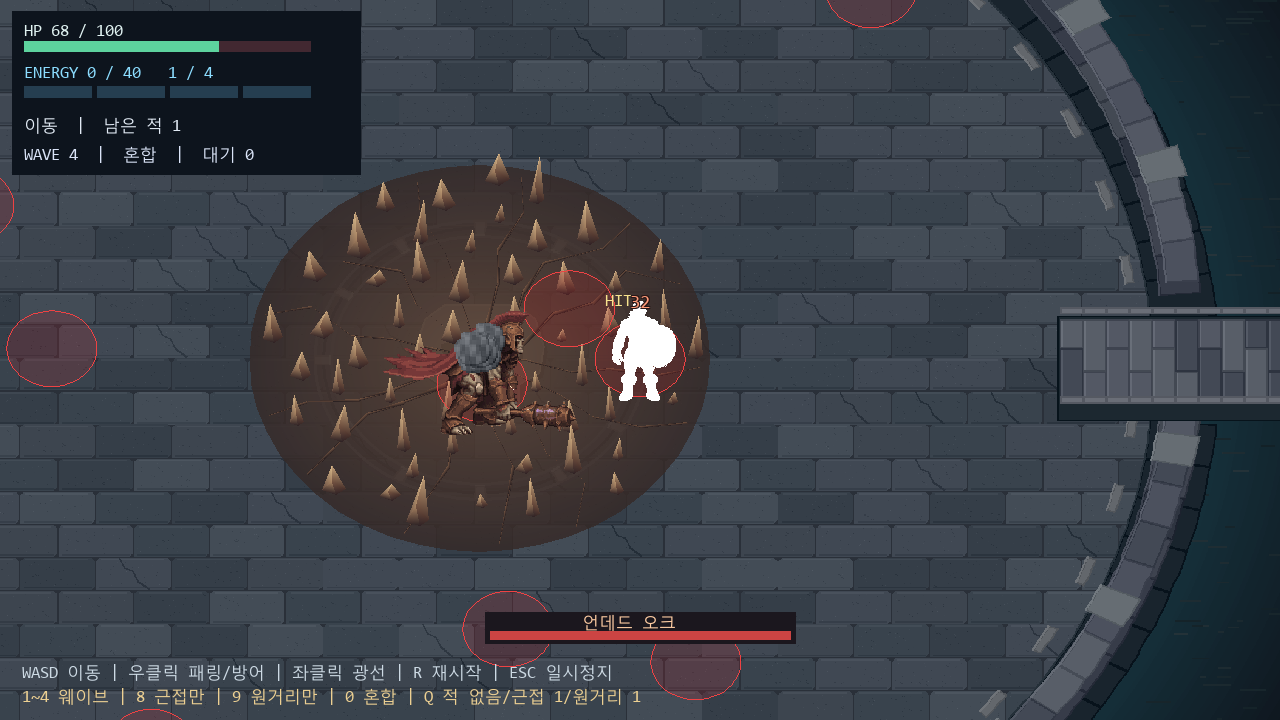
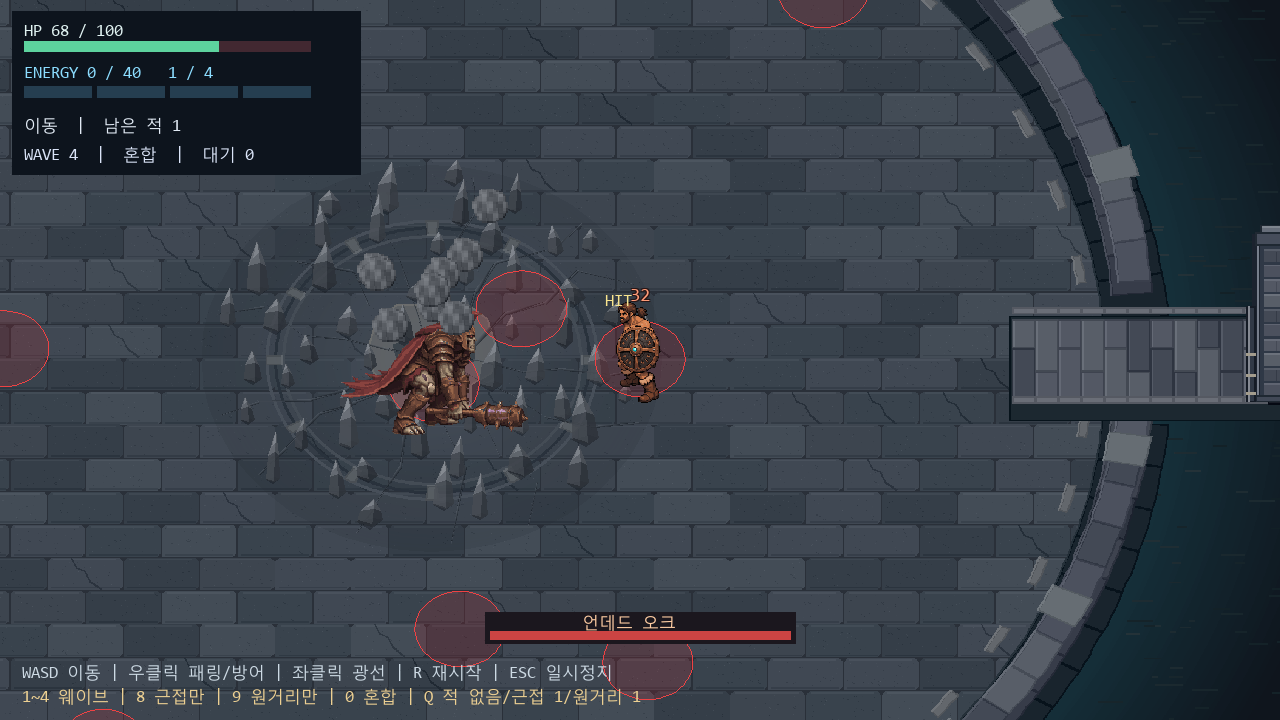
지면 강타 돌기둥을 경기장 회색 벽돌에 맞춤

diff --git a/stone_eruption.py b/stone_eruption.py
@@ -1,4 +1,4 @@
-"""A single ground-slam burst, with stone tips rising from the whole impact disk."""
+"""A ground-slam burst that raises broken masonry from the arena floor."""
 
 from ctypes import byref, c_int
 from math import cos, pi, sin, sqrt
@@ -30,7 +30,8 @@ class StoneEruption:
             angle = index * golden_angle + rng.uniform(-.11, .11)
             distance = (radius - .65) * sqrt((index + .5) / count)
             spikes.append((x + distance * cos(angle), y + distance * sin(angle),
-                           rng.uniform(.26, .61), rng.uniform(.65, 2.65), rng.uniform(-.55, .55)))
+                           rng.uniform(.34, .70), rng.uniform(.85, 2.55), rng.uniform(-.55, .55),
+                           rng.randint(-8, 8)))
         self.spikes = sorted(spikes, key=lambda spike: spike[1], reverse=True)
 
     def draw(self, camera, age):
@@ -49,31 +50,48 @@ class StoneEruption:
 
         cx, cy = camera.to_screen(*self.center)
         edge = [camera.to_screen(*p) for p in self.rim]
-        # The fractured surface fills the entire hit disc on the first impact frame.
+        # The burst shades the whole disc while leaving the original pavers visible.
         for left, right in zip(edge, edge[1:] + edge[:1]):
-            color = (54, 42, 40, 213)
-            triangle((cx, cy, (97, 71, 56, 221)), (*left, color), (*right, color))
+            color = (37, 43, 50, 42)
+            triangle((cx, cy, (82, 92, 104, 122)), (*left, color), (*right, color))
 
         scale = camera.pixels_per_meter
         for crack in self.fissures:
             points = [camera.to_screen(*point) for point in crack]
             for index, ((x1, y1), (x2, y2)) in enumerate(zip(points, points[1:])):
                 thickness = scale * (.19 - index * .025)
-                shade, lip = (37, 29, 31, 212), (147, 104, 76, 152)
+                shade, lip = (23, 29, 36, 208), (110, 118, 128, 125)
                 triangle((x1, y1, lip), (x1 + thickness, y1 - thickness, shade), (x2, y2, shade))
                 triangle((x1 + thickness, y1 - thickness, shade), (x2, y2, lip),
                          (x2 + thickness * .6, y2 - thickness * .6, shade))
-        for x, y, width, height, lean in self.spikes:
+        def face(color, *points):
+            for a, b in zip(points[1:], points[2:]):
+                triangle((*points[0], color), (*a, color), (*b, color))
+
+        def gray(tone, variation):
+            value = tone + variation
+            return (value, value + 5, value + 12, 255)
+
+        for x, y, width, height, lean, variation in self.spikes:
             sx, sy = camera.to_screen(x, y)
             w, h = width * scale, height * scale * growth
             point = (sx + lean * w, sy + h)
-            left, right = (sx - w, sy), (sx + w, sy + .15 * w)
-            front = (sx + .16 * w, sy - .40 * w)
-            ridge = (sx - .18 * w, sy + .35 * h)
-            triangle((*left, (71, 52, 48, 255)), (*front, (44, 33, 36, 255)), (*ridge, (168, 132, 99, 255)))
-            triangle((*left, (91, 68, 60, 255)), (*ridge, (168, 132, 99, 255)), (*point, (225, 192, 144, 255)))
-            triangle((*point, (200, 166, 125, 255)), (*ridge, (114, 82, 65, 255)), (*right, (76, 53, 46, 255)))
-            triangle((*ridge, (117, 84, 67, 255)), (*front, (48, 34, 37, 255)), (*right, (73, 49, 43, 255)))
+            left, right = (sx - w, sy), (sx + .93 * w, sy + .12 * w)
+            foot = (sx + .15 * w, sy - .34 * w)
+            left_corner = (sx + (.32 * lean - .85) * w, sy + .48 * h)
+            right_corner = (sx + (.32 * lean + .68) * w, sy + .49 * h)
+            ridge = (sx + (.34 * lean + .16) * w, sy + .56 * h)
+            notch = (sx + (.57 * lean - .42) * w, sy + .66 * h)
+            bevel = (sx + (.66 * lean + .10) * w, sy + .76 * h)
+
+            face((20, 25, 32, 128), left, (sx, sy - .57 * w), right, (sx + .25 * w, sy + .30 * w))
+            face(gray(70, variation), left, foot, ridge, left_corner)
+            face(gray(48, variation), foot, right, right_corner, ridge)
+            face(gray(108, variation), left_corner, notch, point, bevel, ridge)
+            face(gray(79, variation), ridge, bevel, point, right_corner)
+            face(gray(132, variation), notch, point, bevel)
+            face(gray(42, variation), left, foot,
+                 (foot[0] - .06 * w, foot[1] + .17 * w), (left[0] + .08 * w, sy + .11 * w))
 
         renderer = canvas.renderer
         blend = c_int()
